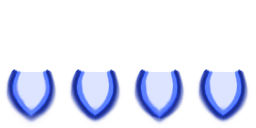
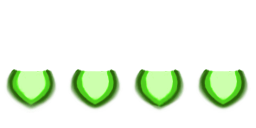
fixed player colour and spawn system

diff --git a/SpaceSumo/WeightSelectionState.cpp b/SpaceSumo/WeightSelectionState.cpp
@@ -13,8 +13,8 @@
 #include <string>
 #include "SpacemanData.h"
 
-WeightSelectionState::WeightSelectionState(StateList &owner, SpacemanData (&mSpacemenData)[4])
-	: State(owner), mWeightClasses(5), mOnFinish(new ChangeStateCommand(st::FINISHED_STATE, owner))
+WeightSelectionState::WeightSelectionState(StateList &owner, SpacemanData (&mSpacemenData)[4], GameData& data)
+	: State(owner), mWeightClasses(5), mOnFinish(new ChangeStateCommand(st::FINISHED_STATE, owner)), created(false)
 {
 	for(int i = 0; i < 4; ++i)
 	{
@@ -30,28 +30,29 @@ WeightSelectionState::WeightSelectionState(StateList &owner, SpacemanData (&mSpa
 			x,
 			0,
 			new DualCommand(
-				new SetWeightClassCommand(
-					mSpacemenData[0], s+"_Body.cfg", s+"_Hands.cfg"),
-				new PlayerReadyToggleCommand(mPlayerReadyStatus[0])),
+			new SetWeightClassCommand(
+			mSpacemenData[0], s+"_Body.cfg", s+"_Hands.cfg"),
+			new PlayerReadyToggleCommand(mPlayerReadyStatus[0])),
 			new DualCommand(
-				new SetWeightClassCommand(
-					mSpacemenData[1], s+"_Body.cfg", s+"_Hands.cfg"),
-				new PlayerReadyToggleCommand(mPlayerReadyStatus[1])),
+			new SetWeightClassCommand(
+			mSpacemenData[1], s+"_Body.cfg", s+"_Hands.cfg"),
+			new PlayerReadyToggleCommand(mPlayerReadyStatus[1])),
 			new DualCommand(
-				new SetWeightClassCommand(
-					mSpacemenData[2], s+"_Body.cfg", s+"_Hands.cfg"),
-				new PlayerReadyToggleCommand(mPlayerReadyStatus[2])),
+			new SetWeightClassCommand(
+			mSpacemenData[2], s+"_Body.cfg", s+"_Hands.cfg"),
+			new PlayerReadyToggleCommand(mPlayerReadyStatus[2])),
 			new DualCommand(
-				new SetWeightClassCommand(
-					mSpacemenData[3], s+"_Body.cfg", s+"_Hands.cfg"),
-				new PlayerReadyToggleCommand(mPlayerReadyStatus[3])),
+			new SetWeightClassCommand(
+			mSpacemenData[3], s+"_Body.cfg", s+"_Hands.cfg"),
+			new PlayerReadyToggleCommand(mPlayerReadyStatus[3])),
 			("res/img/UI/menu/weightSelection/weight_class_" + std::to_string(x))));
 		++x;
 	}
-	mWeightClasses.addObserver(new ButtonSelectionEffect(ControlList::PLAYER_1, mWeightClasses.getFirst()));
-	mWeightClasses.addObserver(new ButtonSelectionEffect(ControlList::PLAYER_2, mWeightClasses.getFirst()));
-	mWeightClasses.addObserver(new ButtonSelectionEffect(ControlList::PLAYER_3, mWeightClasses.getFirst()));
-	mWeightClasses.addObserver(new ButtonSelectionEffect(ControlList::PLAYER_4, mWeightClasses.getFirst()));
+
+
+
+
+
 }
 
 void WeightSelectionState::draw(RenderList &list)
@@ -61,8 +62,34 @@ void WeightSelectionState::draw(RenderList &list)
 
 void WeightSelectionState::update(GameData &data, int delta)
 {
+	if(!created)
+	{
+		int i = data.controlList.getNActivePlayers();
+		switch(i)
+		{
+		case 4:
+			mWeightClasses.addObserver(new ButtonSelectionEffect(ControlList::PLAYER_4, mWeightClasses.getFirst()));
+			--i;
+		case 3:
+			mWeightClasses.addObserver(new ButtonSelectionEffect(ControlList::PLAYER_3, mWeightClasses.getFirst()));
+			--i;
+		case 2:
+			mWeightClasses.addObserver(new ButtonSelectionEffect(ControlList::PLAYER_2, mWeightClasses.getFirst()));
+			--i;
+		case 1:
+			mWeightClasses.addObserver(new ButtonSelectionEffect(ControlList::PLAYER_1, mWeightClasses.getFirst()));
+			break;
+
+		}
+		created = true;
+	}
 	mWeightClasses.update(data, delta);
-	if(mPlayerReadyStatus[0] && mPlayerReadyStatus[1] && mPlayerReadyStatus[2] && mPlayerReadyStatus[3])
+	int allReady = 0;
+	for(int i = 0; i < 4; ++i)
+	{
+		if( mPlayerReadyStatus[i]) ++allReady;
+	}
+	if(allReady == data.controlList.getNActivePlayers())
 		mOwner.changeState(st::FINISHED_STATE);
 }
 

diff --git a/SpaceSumo/XController.cpp b/SpaceSumo/XController.cpp
@@ -72,30 +72,31 @@ void XController::update(GameData& data)
 
 			if(evt.joystickButton.joystickId == mControllerIndex)
 			{
+				bool breakmaybe = false;
 				if(evt.joystickButton.button == mActivate) // A
 				{
 					set(ACTIVATE, true);
-					break;
+					breakmaybe = true;
 				}
 
 				if(evt.joystickButton.button == mPush) // B
 				{
 					set(PUSH, true);
-					break;
+					breakmaybe = true;
 				}
 
 				if(evt.joystickButton.button == mEnter) // B
 				{
 					set(ENTER, true);
-					break;
+					breakmaybe = true;
 				}
 
 				if(evt.joystickButton.button == mForward) // B
 				{
 					set(FORWARD, true);
-					break;
+					breakmaybe = true;
 				}
-				
+				if(breakmaybe)break;
 			}
 
 			/*if(evt.joystickMove.axis == sf::Joystick::Y) // left stick horizontal
@@ -145,29 +146,31 @@ void XController::update(GameData& data)
 		case sf::Event::JoystickButtonReleased:
 			if(evt.joystickButton.joystickId == mControllerIndex)
 			{
+				bool breakmaybe = false;
 				if(evt.joystickButton.button == mActivate) // A
 				{
 					set(ACTIVATE, false);
-					break;
+					breakmaybe = true;
 				}
 
 				if(evt.joystickButton.button == mPush) // B
 				{
 					set(PUSH, false);
-					break;
+					breakmaybe = true;
 				}
 
 				if(evt.joystickButton.button == mEnter) // B
 				{
 					set(ENTER, false);
-					break;
+					breakmaybe = true;
 				}
 
 				if(evt.joystickButton.button == mForward) // B
 				{
 					set(FORWARD, false);
-					break;
+					breakmaybe = true;
 				}
+				if(breakmaybe)break;
 			}
 		default:
 			data.input.add(evt);

diff --git a/SpaceSumo/GameState.cpp b/SpaceSumo/GameState.cpp
@@ -101,25 +101,31 @@ void GameState::setup(SpacemanData (&sData)[4], GameData &gData)
 		{
 			mData.mEntityImpList.add(entFac::createSpaceMan(sData[0], gData, ControlList::PLAYER_1, SVector(600, 400), 30));
 		}
+		if(gData.controlList.getNActivePlayers() == 1)
+			break;
 		p = ControlList::PLAYER_2;
 	case ControlList::PLAYER_2:
 		if(gData.controlList.isActive(p))
 		{
 			mData.mEntityImpList.add(entFac::createSpaceMan(sData[1], gData, ControlList::PLAYER_2, SVector(1200, 400), 30));
 		}
+		if(gData.controlList.getNActivePlayers() == 2)
+			break;
 		p = ControlList::PLAYER_3;
 	case ControlList::PLAYER_3:
 		if(gData.controlList.isActive(p))
 		{
 			mData.mEntityImpList.add(entFac::createSpaceMan(sData[2], gData, ControlList::PLAYER_3, SVector(600, 600), 30));
 		}
+		if(gData.controlList.getNActivePlayers() == 3)
+			break;
 		p = ControlList::PLAYER_3;
 	case ControlList::PLAYER_4:
 		if(gData.controlList.isActive(p))
 		{
 			mData.mEntityImpList.add(entFac::createSpaceMan(sData[3], gData, ControlList::PLAYER_4, SVector(1200, 600), 30));
 		}
-		p = ControlList::PLAYER_3;
+		break;
 	}
 	//mData.mEntityImpList.add(entFac::createSpaceMan(sData[1], gData, 1, (400, 400), 30));
 }

diff --git a/SpaceSumo/WeightSelectionState.h b/SpaceSumo/WeightSelectionState.h
@@ -9,7 +9,7 @@ class Command;
 class WeightSelectionState : public State
 {
 public:
-	WeightSelectionState(StateList &owner, SpacemanData (&mSpacemenData)[4]);
+	WeightSelectionState(StateList &owner, SpacemanData (&mSpacemenData)[4], GameData& data);
 	~WeightSelectionState();
 	virtual void draw(RenderList &list);
 	virtual void update(GameData &data, int delta);
@@ -19,5 +19,6 @@ private:
 	Command* mOnFinish;
 
 	bool mPlayerReadyStatus[4];
+	bool created;
 };
 

diff --git a/SpaceSumo/entityFactory.cpp b/SpaceSumo/entityFactory.cpp
@@ -46,7 +46,7 @@ EntityImp* entFac::createSpaceMan(SpacemanData& sData, GameData& gData, int play
 	return new SpaceManImp(
 		gData.controlList.get(playerIndex),
 		pos, startRotation,
-		Config("res/conf/characters/spaceman/visual_data_1.cfg"),
+		Config("res/conf/characters/spaceman/visual_data_"+std::to_string(playerIndex+1)+".cfg"),
 		Config(sData.bodyData),
 		Config(sData.handData),
 		gData);

diff --git a/SpaceSumo/CharacterSetupState.cpp b/SpaceSumo/CharacterSetupState.cpp
@@ -18,7 +18,7 @@ CharacterSetupState::CharacterSetupState(StateList &owner, GameData &data, GameS
 
 	}
 	add(new AddPlayersState(*this));
-	add(new WeightSelectionState(*this, mSpacemenData));
+	add(new WeightSelectionState(*this, mSpacemenData, data));
 	StateList::changeState(0);
 	sync();
 

diff --git a/SpaceSumo/Exploded.h b/SpaceSumo/Exploded.h
@@ -13,7 +13,7 @@ public:
 	Exploded();
 	virtual ~Exploded();
 
-	virtual void update(sf::Keyboard::Key& push, GameData& data);
+	virtual void update(Controller& controller, GameData& data);
 	virtual void draw(RenderList& list, SpaceManImp* owner);
 	virtual EffectImp* clone();
 

diff --git a/SpaceSumo/Exploded.cpp b/SpaceSumo/Exploded.cpp
@@ -30,7 +30,7 @@ Exploded::~Exploded()
 }
 
 
-void Exploded::update(sf::Keyboard::Key& push, GameData& data)
+void Exploded::update(Controller& controller, GameData& data)
 {
 	if(mOwner != 0 )
 	{
